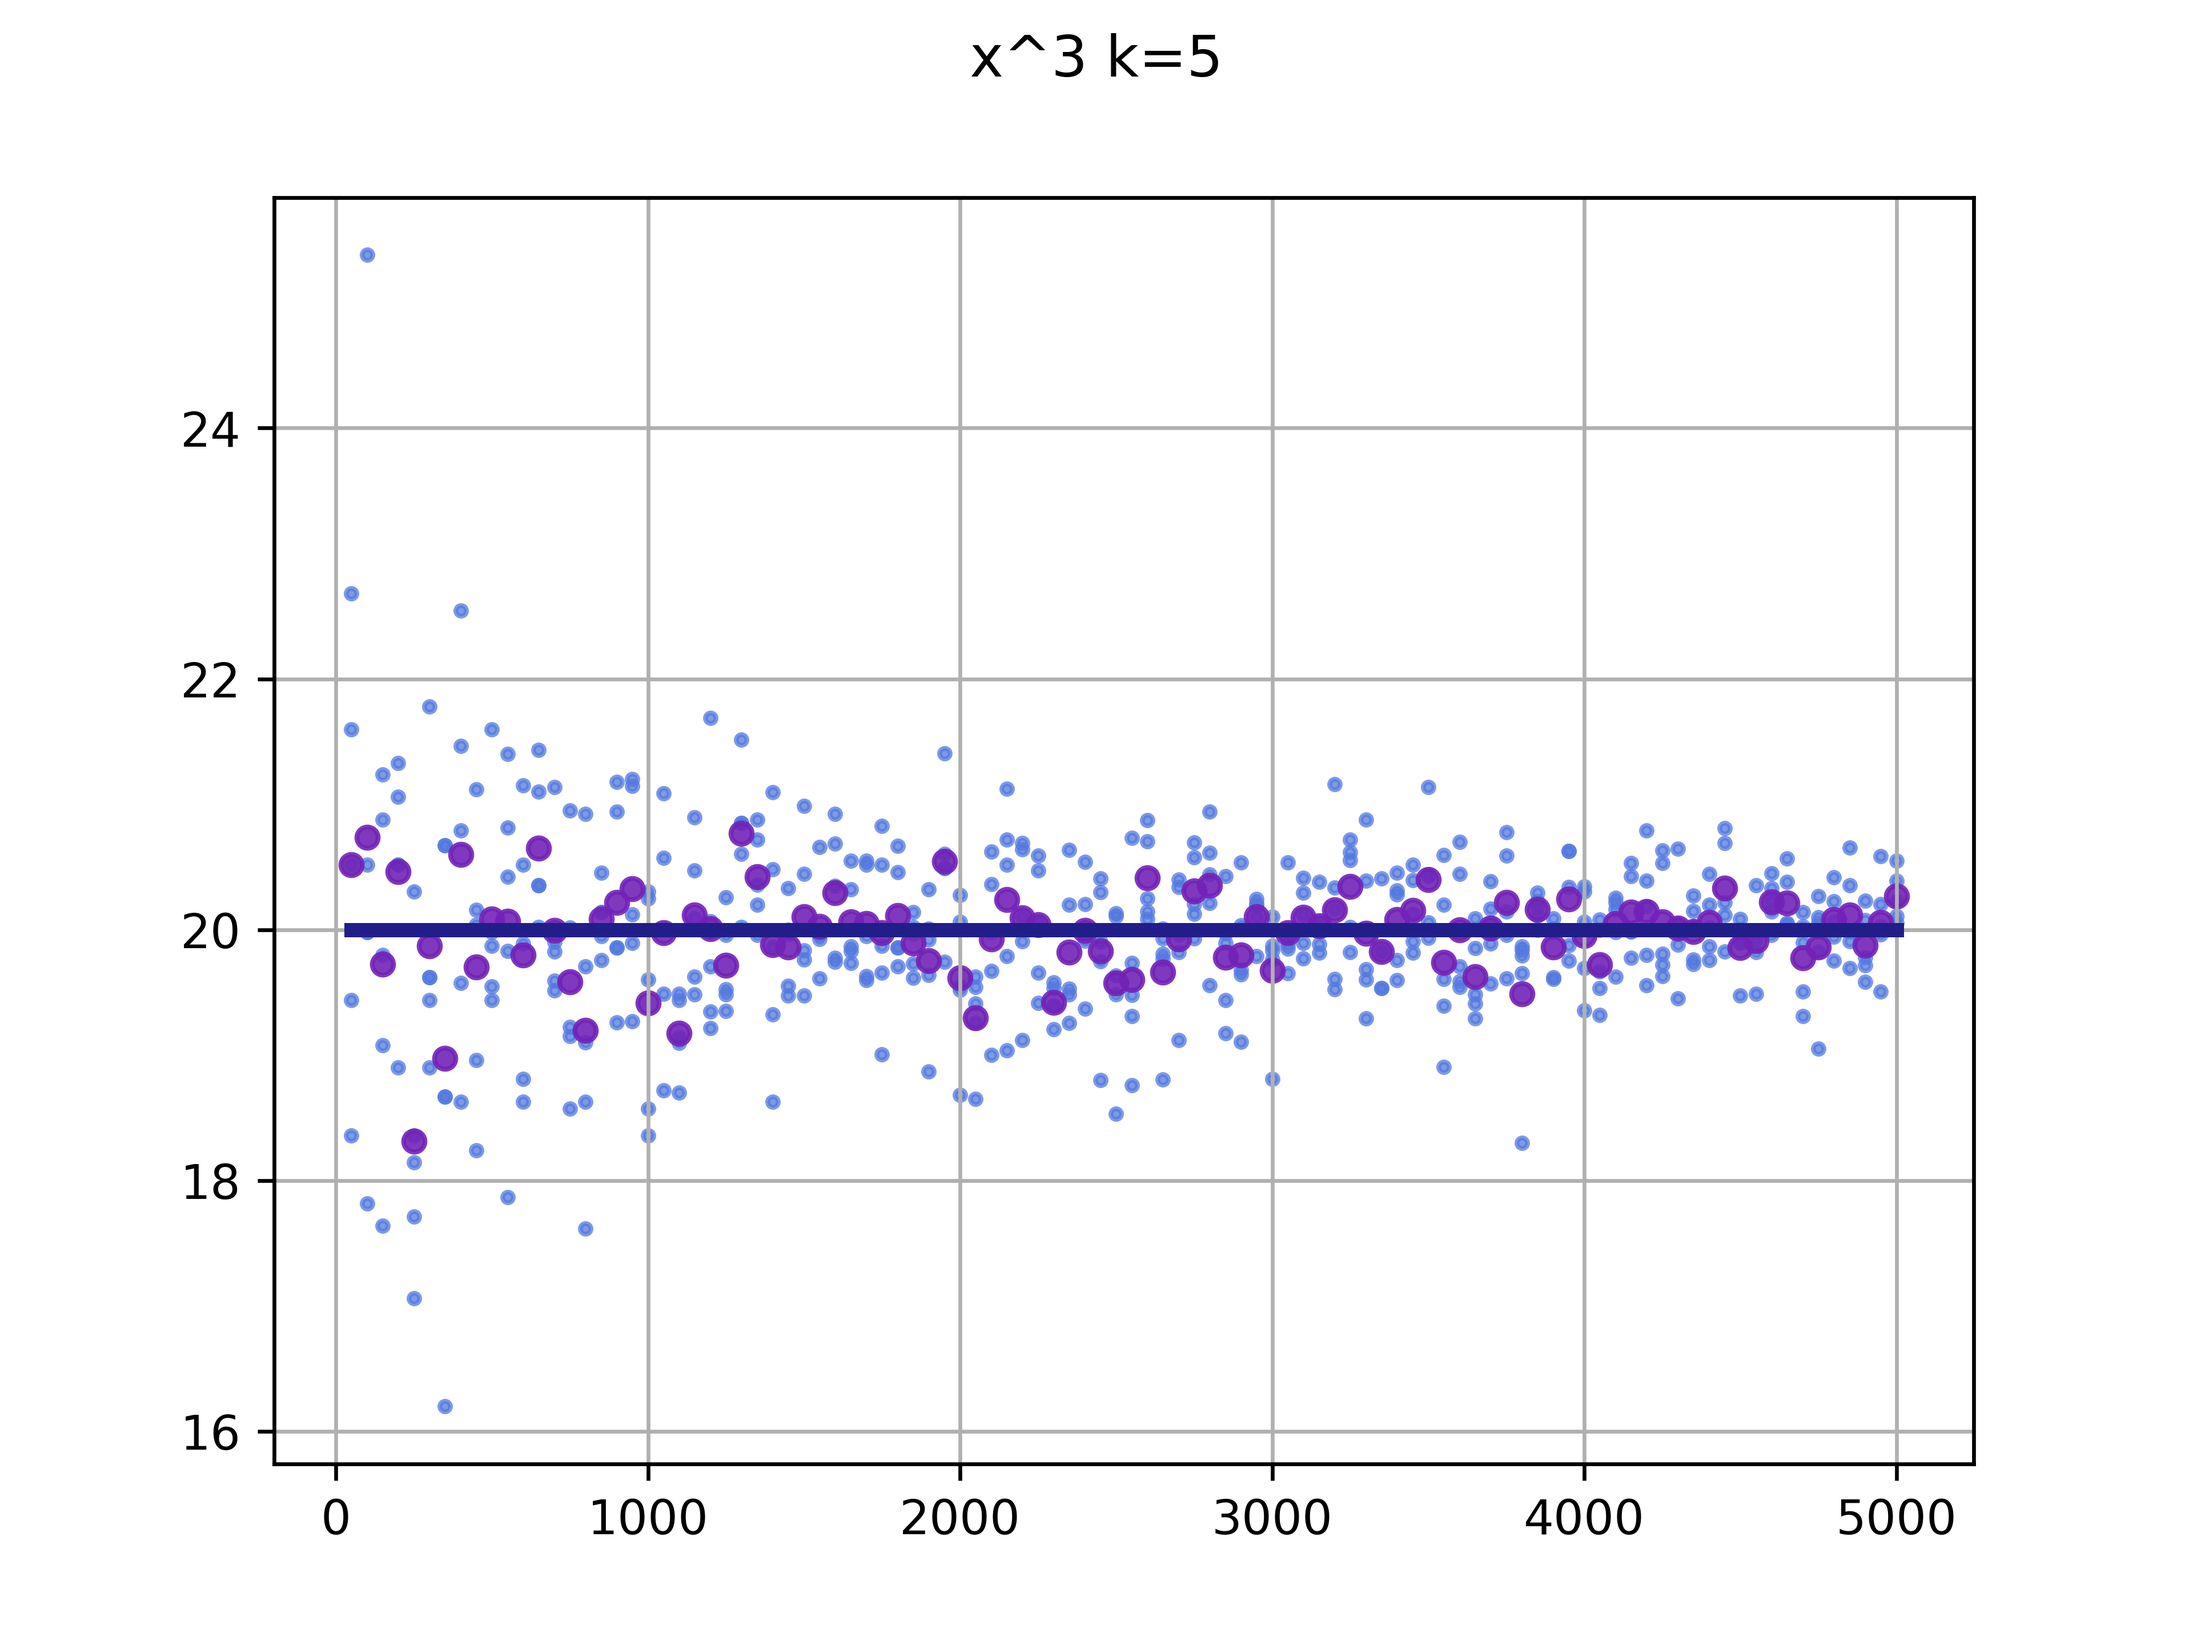
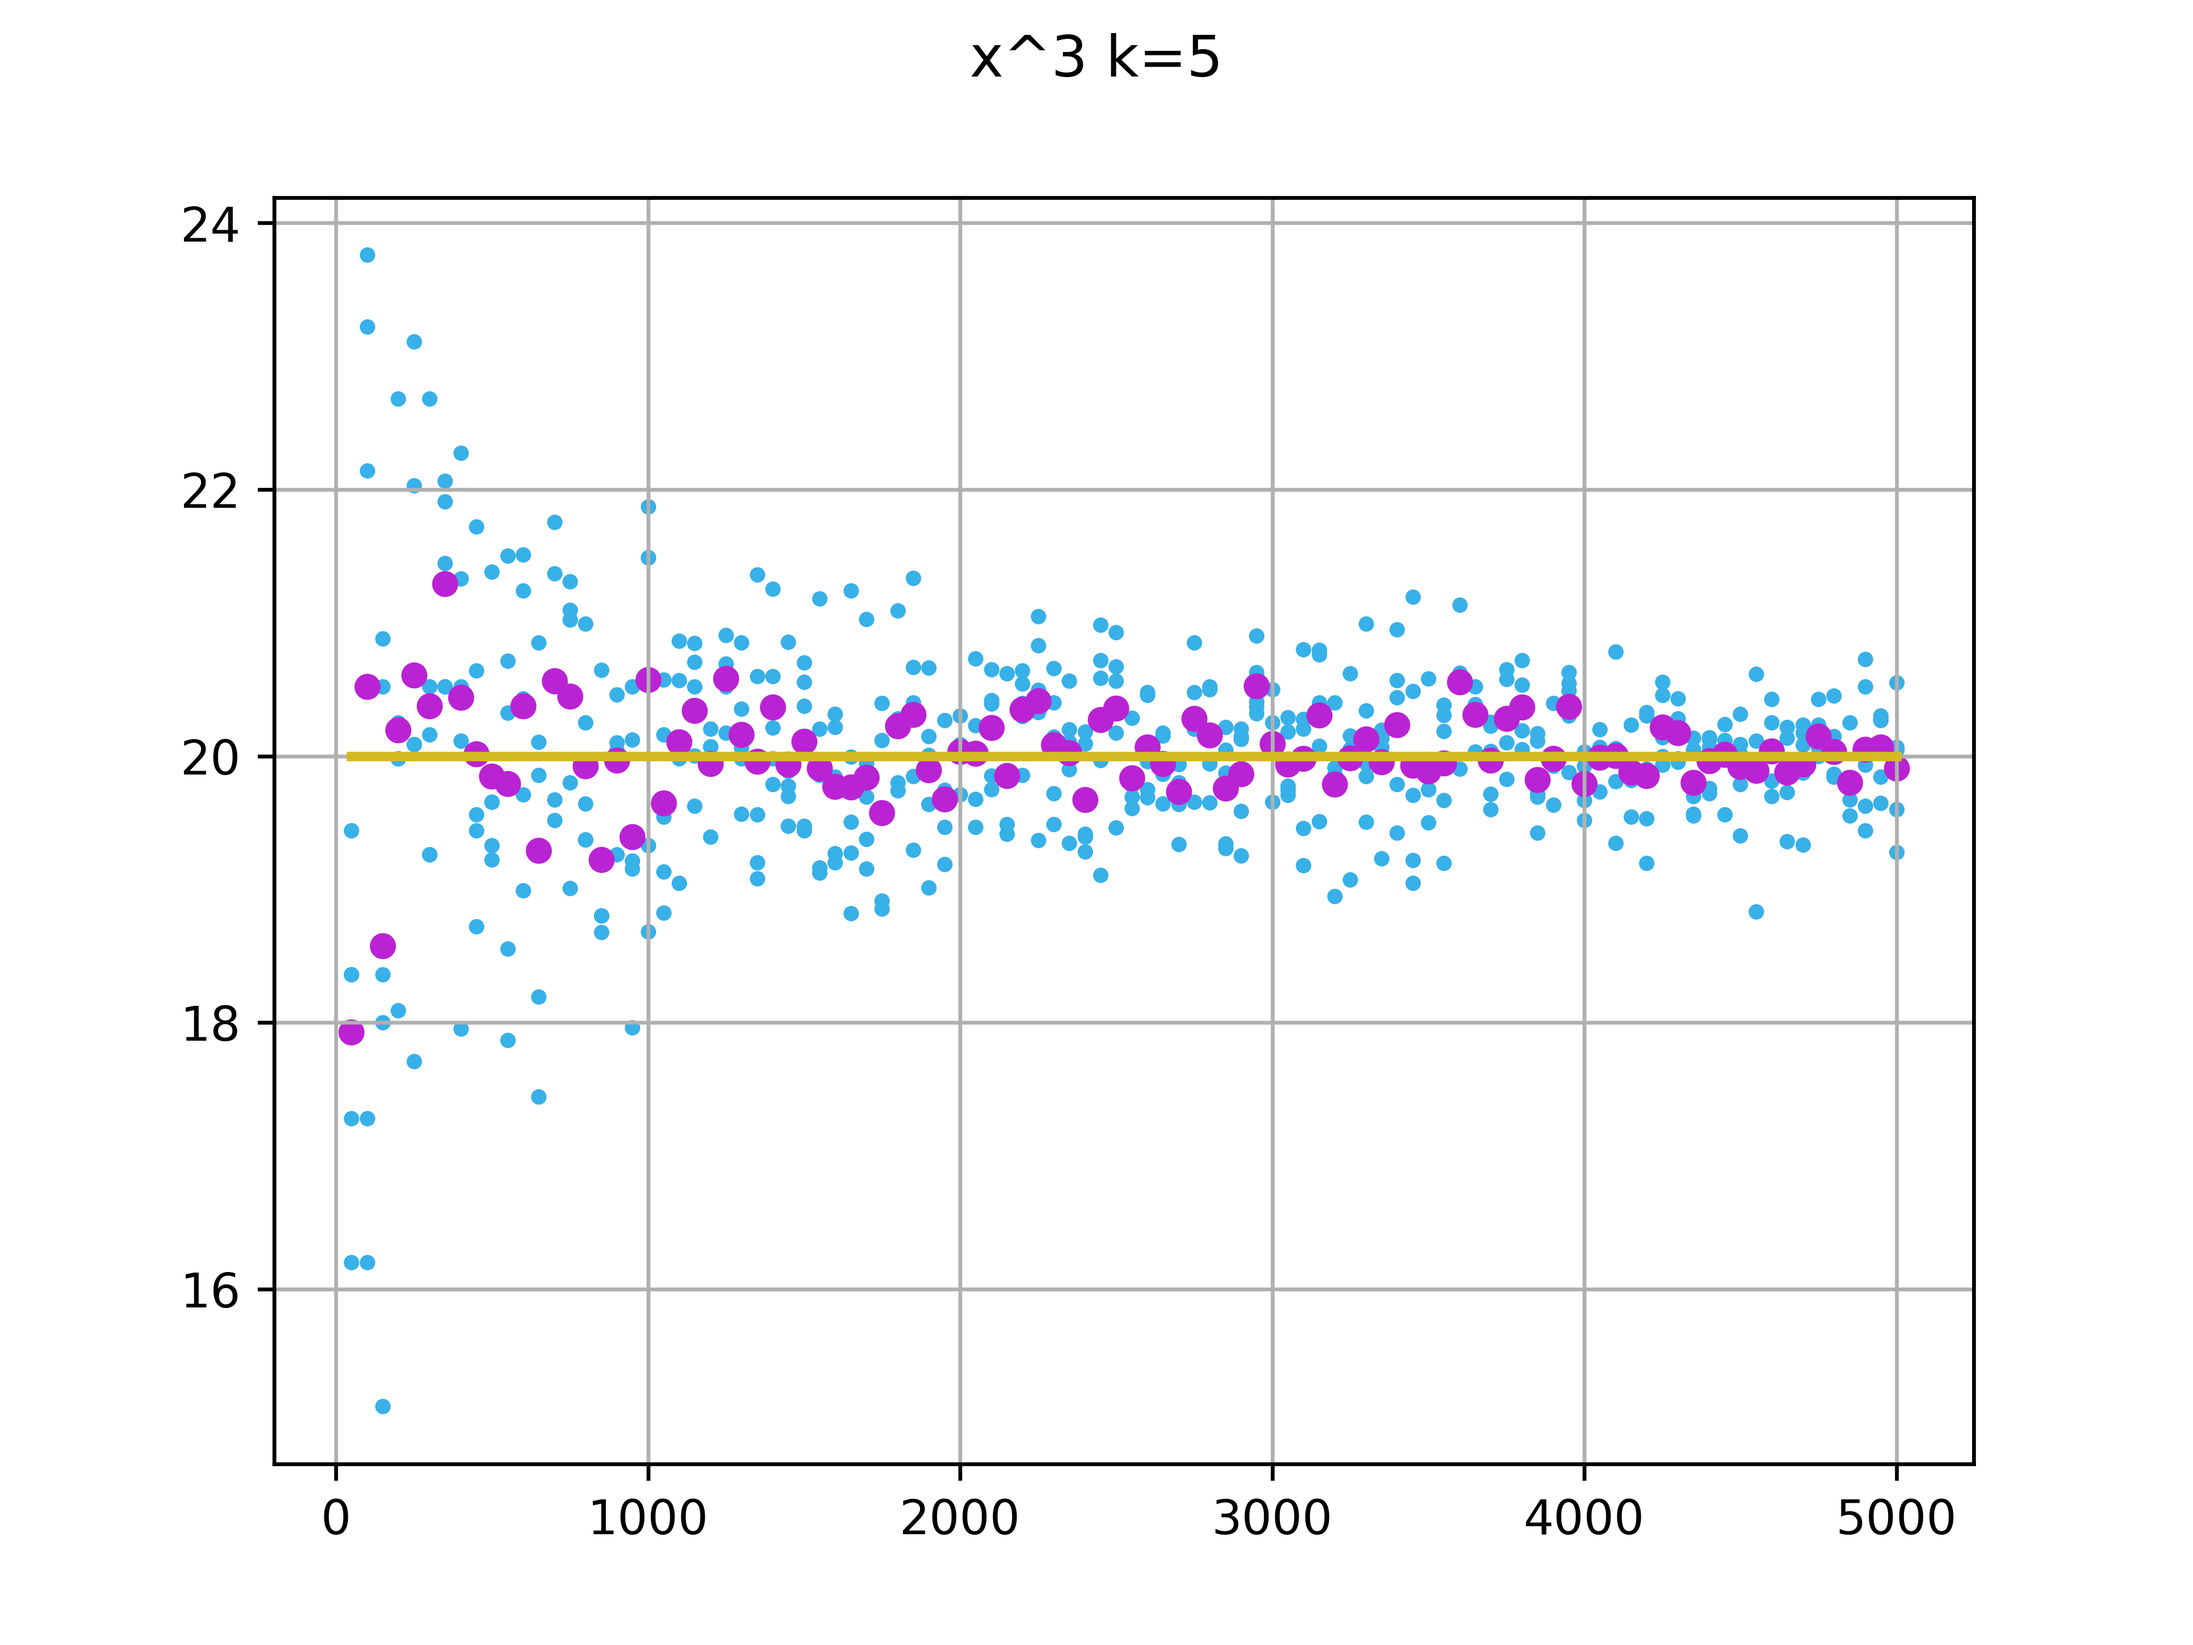
fixed color scheme

diff --git a/rach-prob/l1/main.py b/rach-prob/l1/main.py
@@ -155,10 +155,10 @@ def run_experiment(
 
     fig, ax = plt.subplots()
 
-    ax.scatter(x, y, s=5, color="#5379E0", alpha=0.75)
-    ax.scatter(meanx, meany, s=20, color="#7222B7", alpha=0.9)
+    ax.scatter(x, y, s=5, color="#38B0E8")
+    ax.scatter(meanx, meany, s=20, color="#BA23D3")
     ax.plot([meanx[0], meanx[len(meanx)-1]],
-             [expected, expected], color="#211E89", linewidth=3)
+             [expected, expected], color="#D3BA23", linewidth=2)
 
     fig.suptitle(f'{title} k={k}')
     ax.xaxis.set_label('N')
@@ -169,7 +169,7 @@ def run_experiment(
         fig.savefig(filename, dpi=600)
 
     if showplt:
-        fig.show()
+        plt.show()
 
     plt.close(fig)
 
